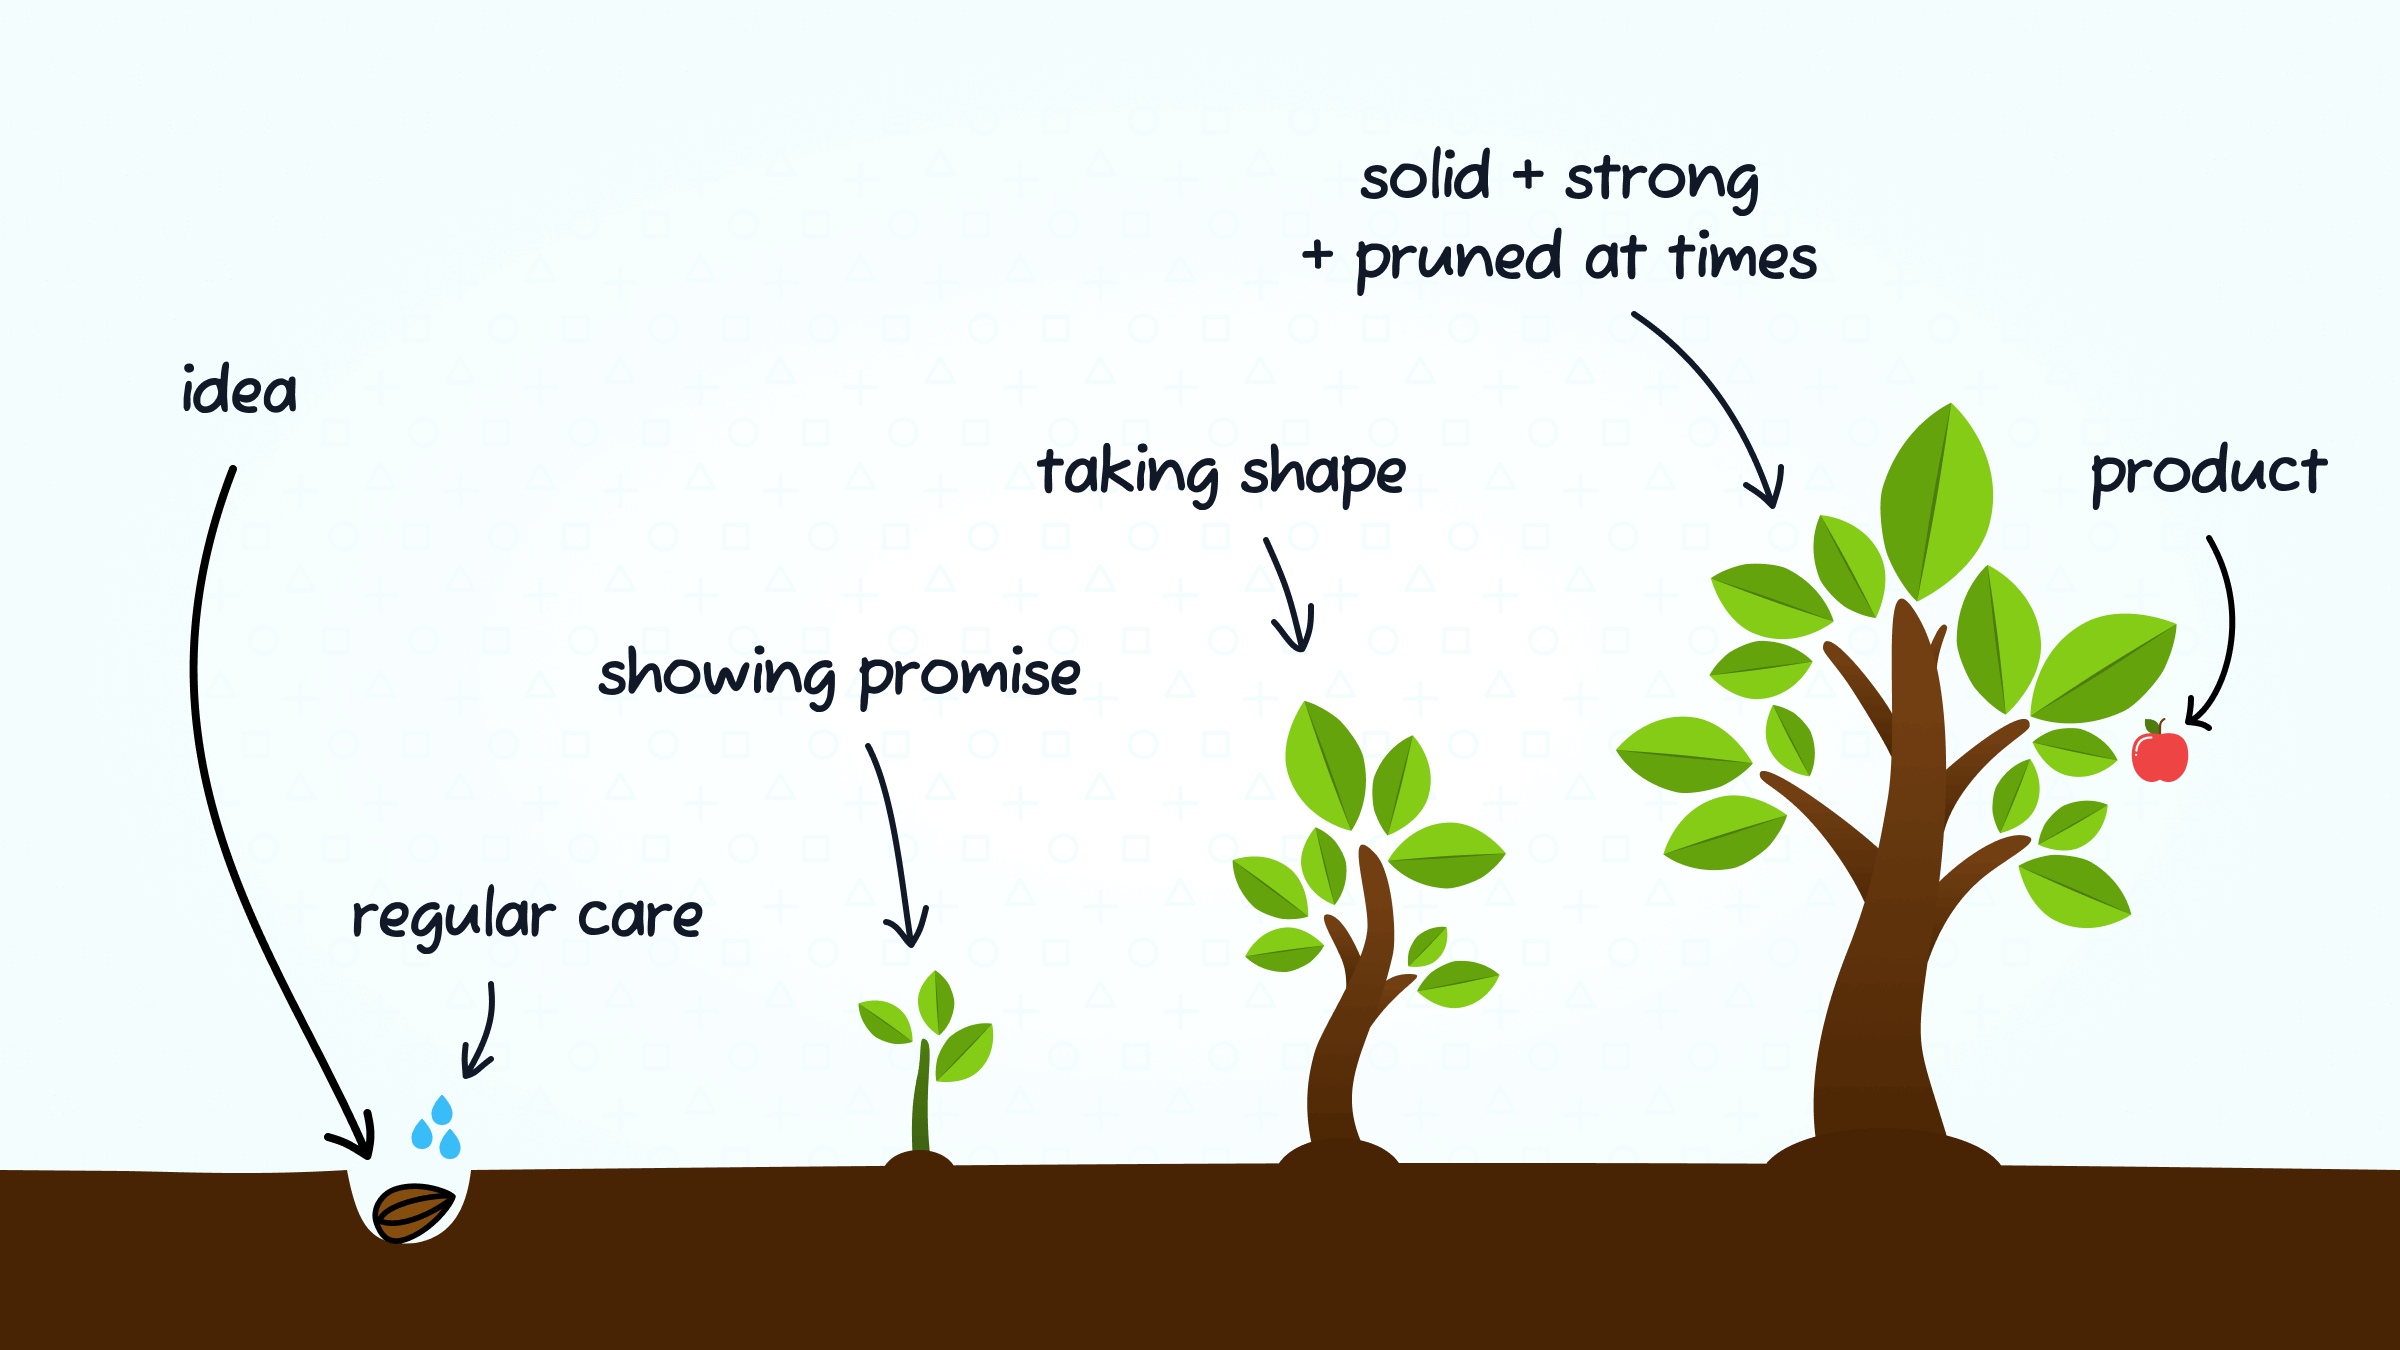
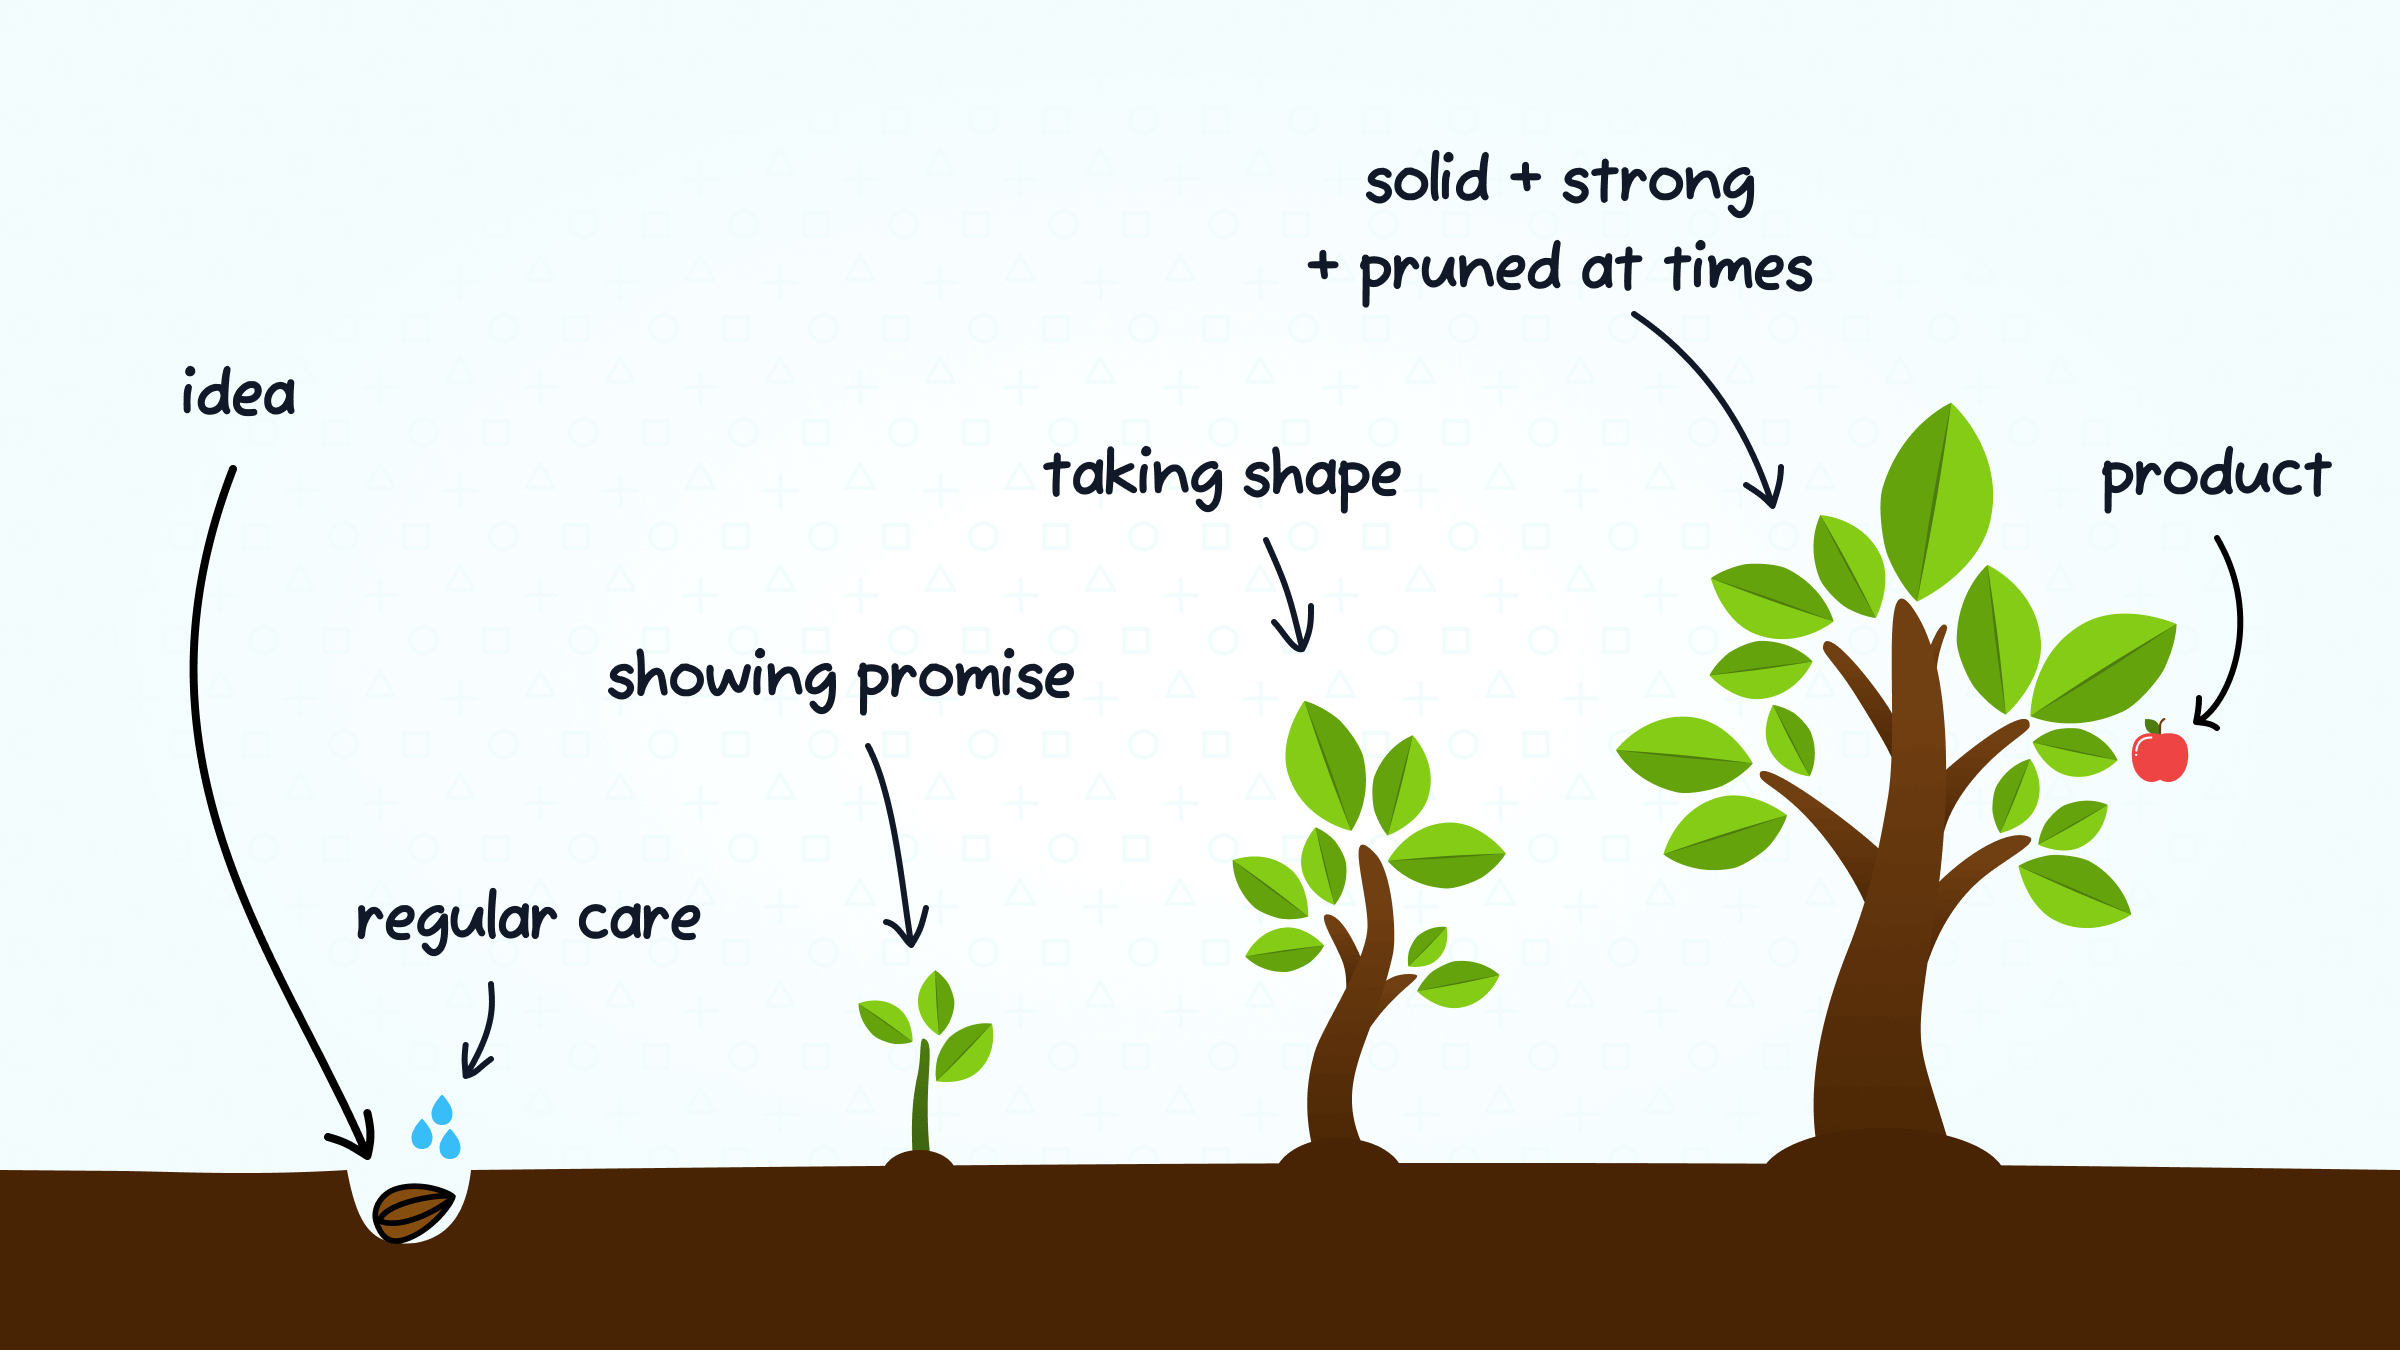
switch to custom merott-fuzzy font

diff --git a/projects/garden/styles/components/button.css b/projects/garden/styles/components/button.css
@@ -1,6 +1,6 @@
 @layer components {
   .btn {
-    @apply relative inline-block leading-tight text-gray-900 border-2 shadow-sm font-hand tracking-tighter transition-colors duration-150 focus:outline-none focus:border-gray-900 active:shadow-none disabled:shadow-none disabled:text-opacity-40 disabled:cursor-default;
+    @apply relative inline-block leading-tight text-gray-900 border-2 shadow-sm font-hand font-bold tracking-wide transition-colors duration-150 focus:outline-none focus:border-gray-900 active:shadow-none disabled:shadow-none disabled:text-opacity-40 disabled:cursor-default;
 
     &.btn-plain {
       @apply border-gray-200 bg-gray-50 hover:bg-white active:bg-gray-200 disabled:bg-gray-50;

diff --git a/projects/garden/components/HeaderNav/HeaderNav.tsx b/projects/garden/components/HeaderNav/HeaderNav.tsx
@@ -50,7 +50,7 @@ export default function HeaderNav({ children, gradient }: HeaderNavProps) {
       <Container>
         <nav className="flex pt-5 justify-between items-center md:pt-6 lg:pt-7">
           <Link href="/">
-            <a className="flex space-x-3 items-center font-hand tracking-[-0.08em] text-lg lg:text-[22px] lg:space-x-5">
+            <a className="flex space-x-3 items-center font-hand font-bold tracking-tight text-lg lg:text-[22px] lg:space-x-5">
               <MonsterEye className="h-6 lg:h-8" />
               <span className="leading-tight mt-[.2em]">Beyond the Boring</span>
             </a>

diff --git a/projects/garden/styles/fonts.css b/projects/garden/styles/fonts.css
@@ -46,11 +46,18 @@
   font-weight: 400;
 }
 
-/* Fuzzy Bubbles, fetched from Google Fonts - Latin only */
+/* Merott Fuzzy, based on Fuzzy Bubbles from Google Fonts */
 @font-face {
-  font-family: 'fuzzy-bubbles';
-  src: url('/fonts/FuzzyBubbles-Bold.woff2') format('woff2');
+  font-family: 'merott-fuzzy';
+  src: url('/fonts/MerottFuzzy-Bold.woff2') format('woff2');
   font-display: swap;
   font-style: normal;
   font-weight: 700;
+}
+@font-face {
+  font-family: 'merott-fuzzy';
+  src: url('/fonts/MerottFuzzy-Regular.woff2') format('woff2');
+  font-display: swap;
+  font-style: normal;
+  font-weight: 400;
 }

diff --git a/projects/garden/tailwind.config.js b/projects/garden/tailwind.config.js
@@ -24,7 +24,7 @@ module.exports = {
       // sans: ['system-ui', ...defaultTheme.fontFamily.sans],
       // sans: ['tenon', ...defaultTheme.fontFamily.sans],
       sans: ['brix-sans', ...defaultTheme.fontFamily.sans],
-      hand: ['fuzzy-bubbles', ...defaultTheme.fontFamily.sans],
+      hand: ['merott-fuzzy', ...defaultTheme.fontFamily.sans],
     },
 
     fontSize: {

diff --git a/projects/garden/pages/_document.tsx b/projects/garden/pages/_document.tsx
@@ -19,7 +19,7 @@ class MyDocument extends Document {
           />
           <link
             rel="preload"
-            href="/fonts/FuzzyBubbles-Bold.woff2"
+            href="/fonts/MerottFuzzy-Bold.woff2"
             as="font"
             crossOrigin="anonymous"
           />
